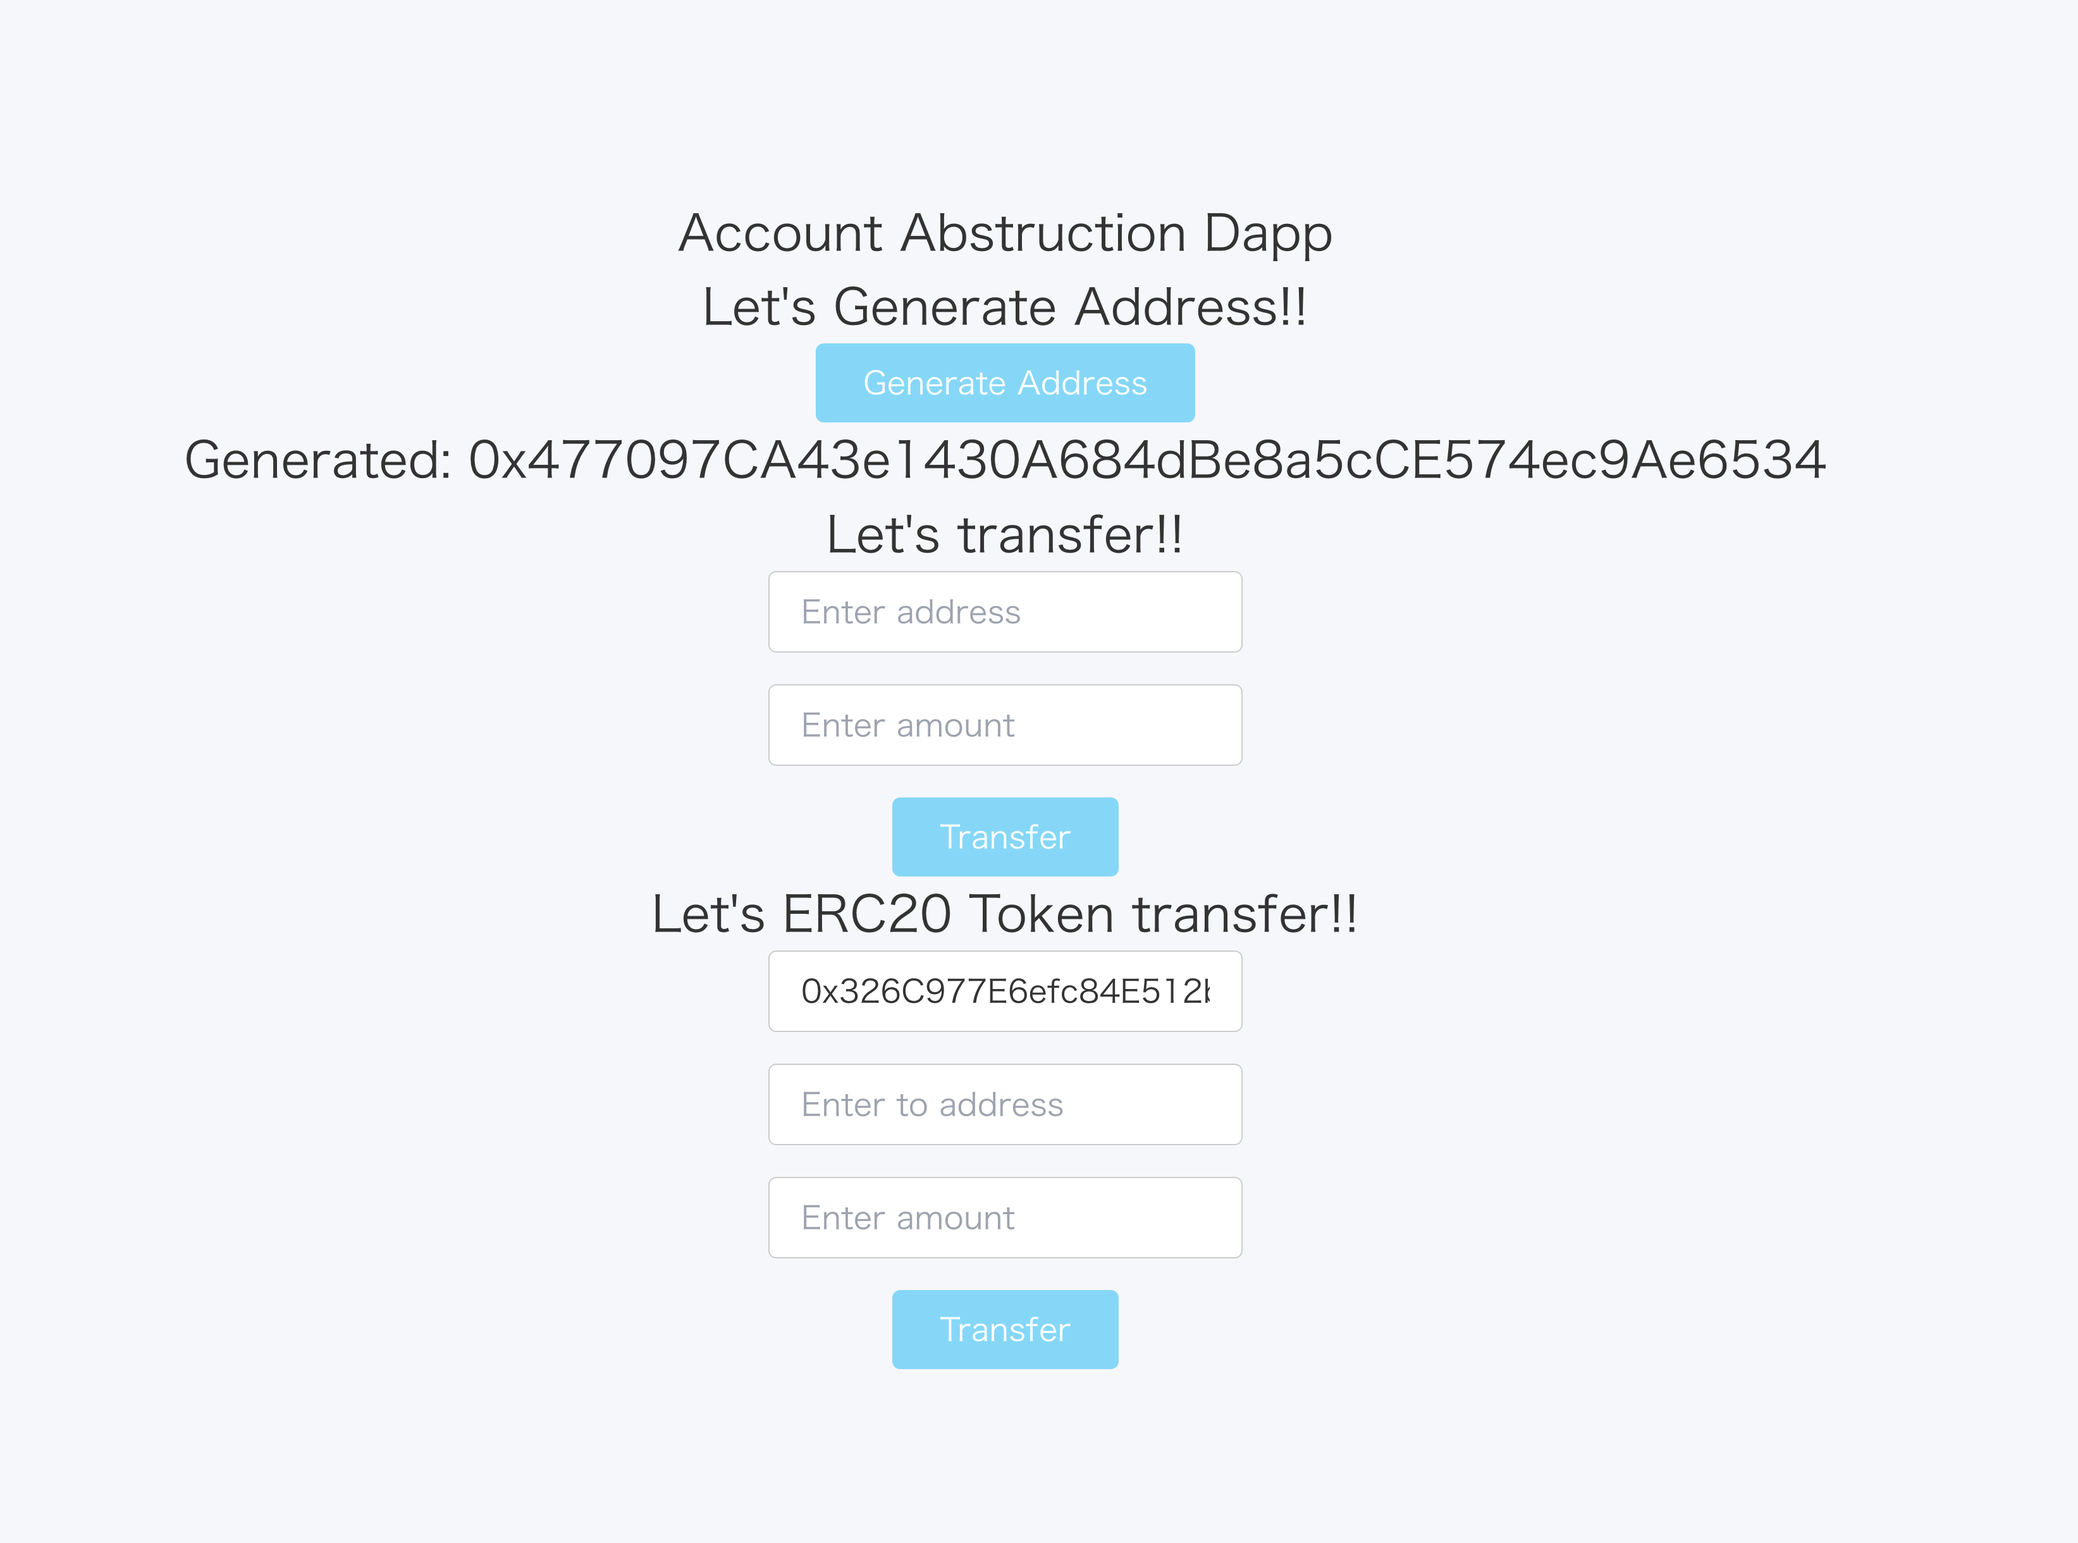
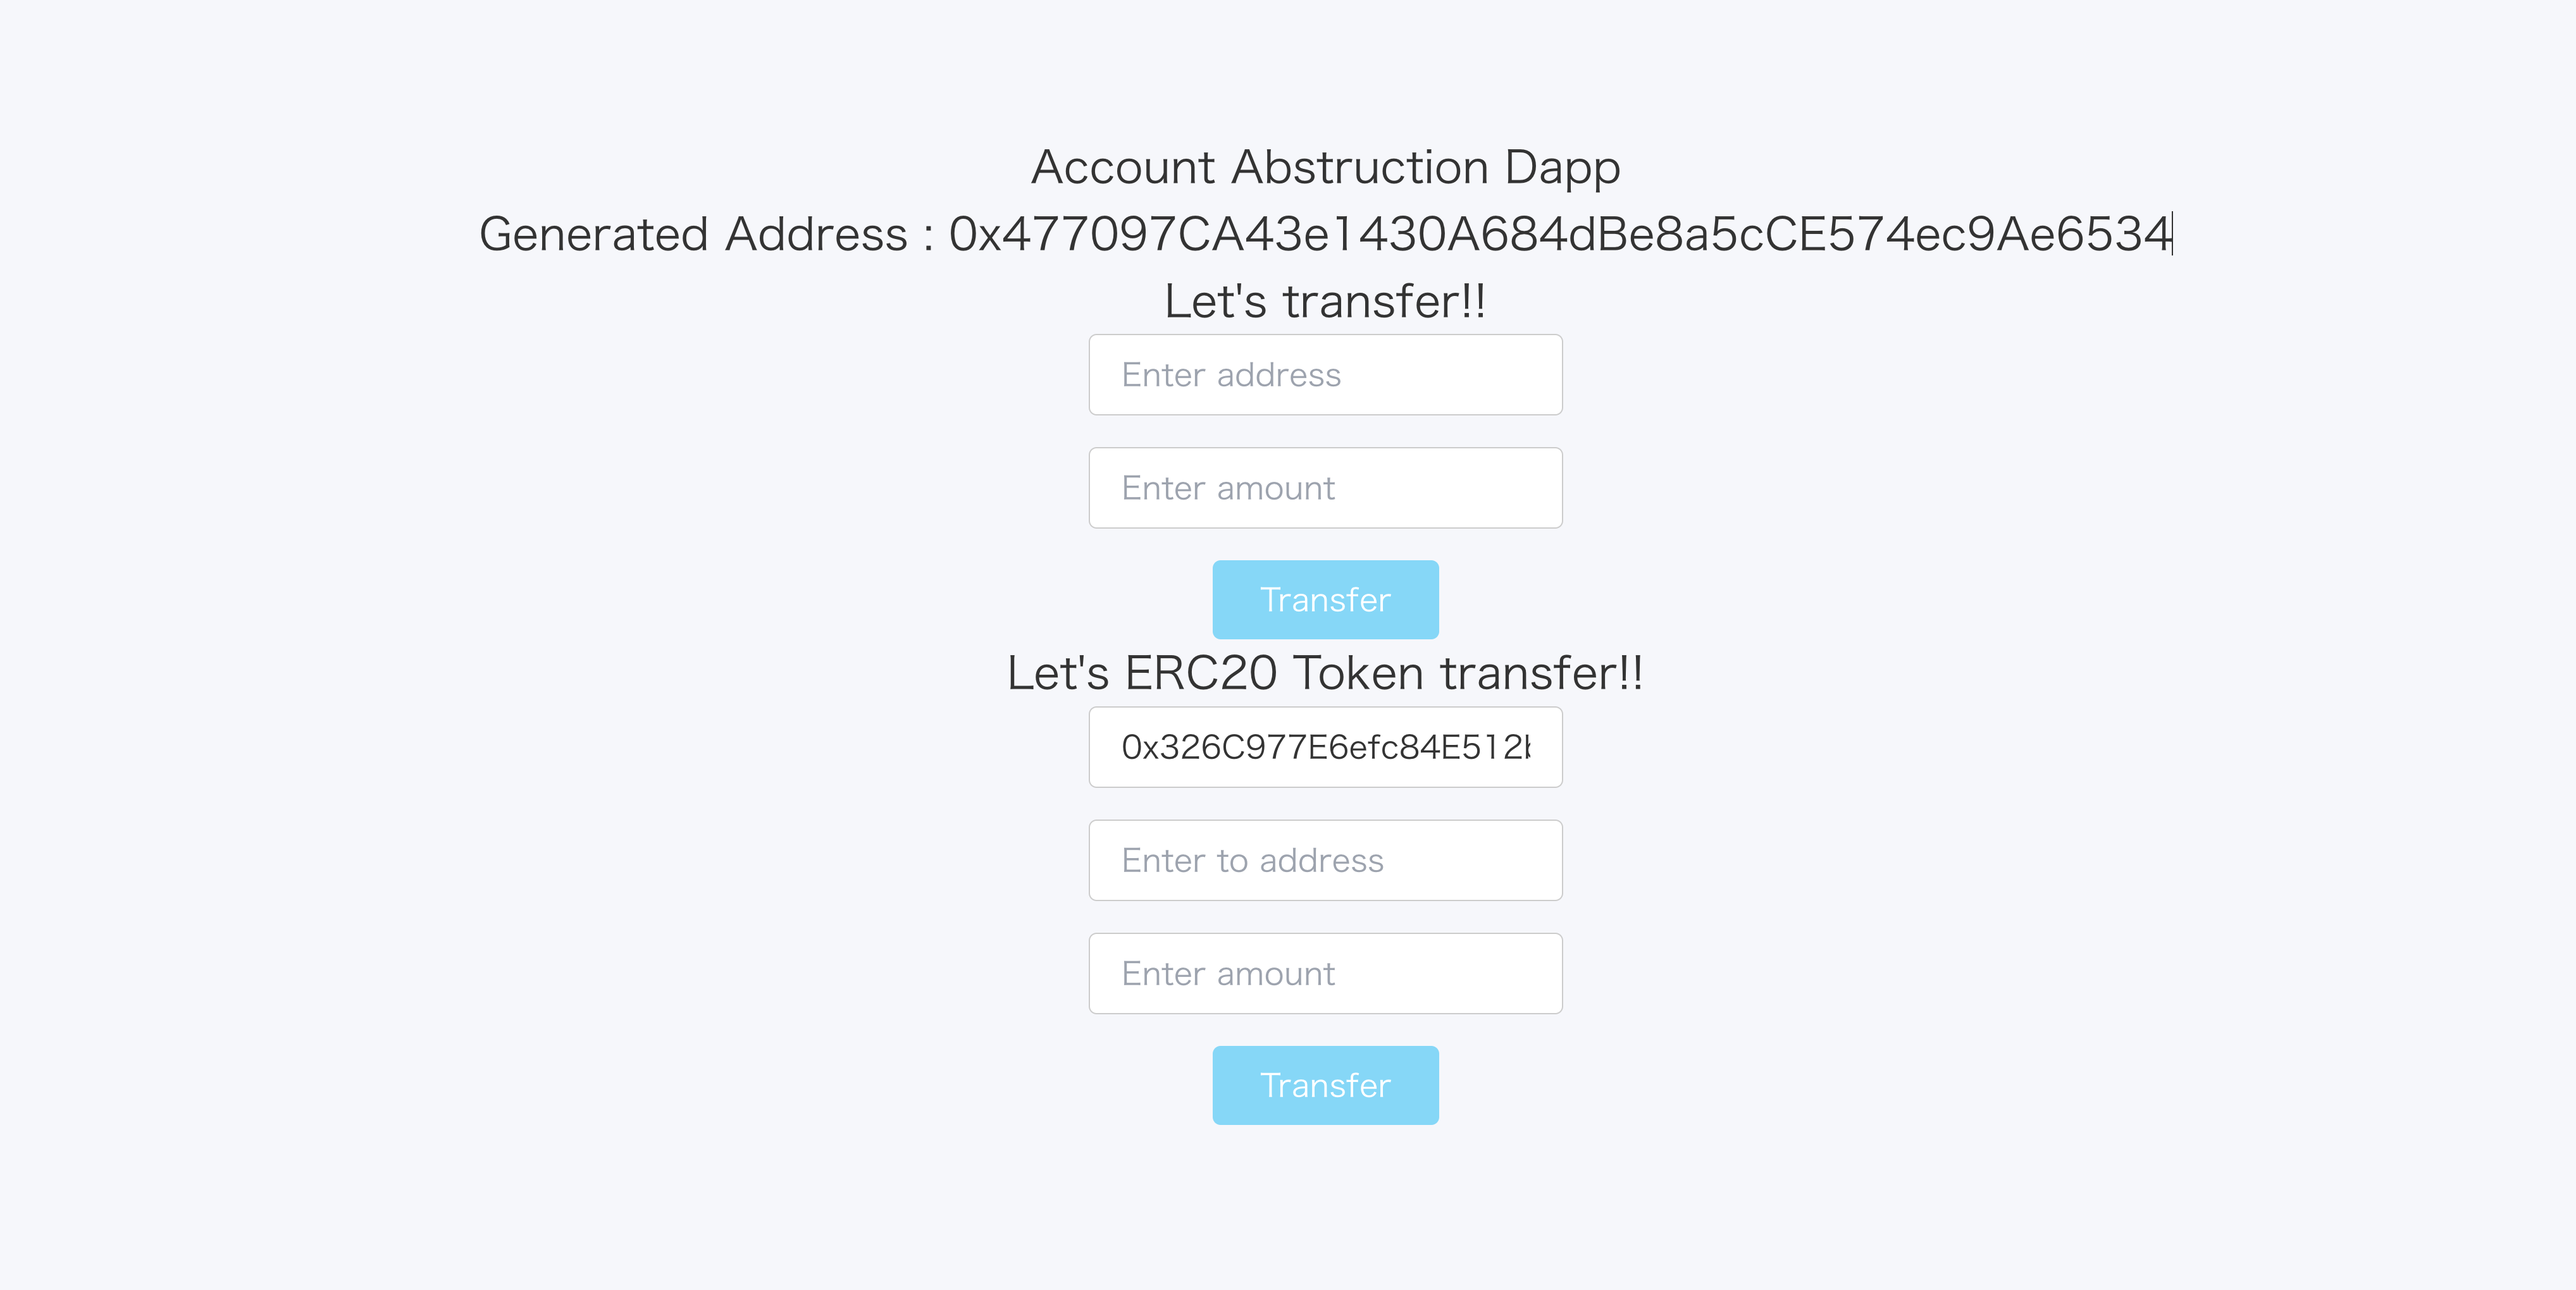
ここまで追加

Changed region(s): [[0.0931, 0.1235, 0.8691, 0.3088], [0.3104, 0.3397, 0.6519, 0.6794], [0.4035, 0.7103, 0.5587, 0.8956]]

diff --git a/frontend/src/App.tsx b/frontend/src/App.tsx
@@ -5,6 +5,18 @@ import ERC20Transfer from './Components/ERC20Transfer';
 import Spinner from './Components/common/Spinner';
 import config from './config.json';
 import { Presets } from 'userop';
+import query from './graphql/query';
+import { Client, Provider, cacheExchange, fetchExchange, useQuery } from 'urql';
+import FactoryTable from './Components/FactoryTable';
+
+// SubGraph用の API エンドポイント
+const API_URL = "https://api.studio.thegraph.com/query/44992/aa-factorymanager/v0.0.1";
+
+// create client
+const client = new Client({
+  url: API_URL,
+  exchanges: [cacheExchange, fetchExchange],
+});
 
 /**
  * App Component
@@ -14,12 +26,17 @@ function App() {
   const [isLoading, setIsLoading] = useState(false);
   const [generatedAddress, setGeneratedAddress] = useState('');
 
+  // execute query
+  const [result] = useQuery({ query });
+  const { data, fetching, error } = result;
+  
   useEffect(() => {
     /**
      * 初期化メソッド
      */
     const init = async () => {
-      setIsLoading(true)
+      setIsLoading(true);
+
       const simpleAccount = await Presets.Builder.SimpleAccount.init(
         config.signingKey,
         config.rpcUrl,
@@ -29,7 +46,7 @@ function App() {
 
       const address = simpleAccount.getSender();
       setGeneratedAddress(address);
-      setIsLoading(false)
+      setIsLoading(false);
     };
     // 初期化メソッド呼び出し
     init();
@@ -46,6 +63,8 @@ function App() {
             Generated Address : {generatedAddress}
             <Transfer setIsLoading={setIsLoading} /> 
             <ERC20Transfer setIsLoading={setIsLoading} />
+            <div>Deployed FactoryContract by FactoryManager</div>
+            {data !== undefined && <FactoryTable data={data} />}
           </>
         )}
       </header>
@@ -53,4 +72,12 @@ function App() {
   );
 }
 
-export default App;
+function Root() {
+  return (
+    <Provider value={client}>
+      <App />
+    </Provider>
+  );
+}
+
+export default Root;

diff --git a/frontend/src/Components/FactoryTable/index.tsx b/frontend/src/Components/FactoryTable/index.tsx
@@ -1,0 +1,41 @@
+import { FactoryCreated } from './../../utils/types';
+
+interface Props {
+  data: { factoryCreateds: FactoryCreated[] };
+}
+
+/**
+   * GraphQLで取得した結果を表形式で出力するためのコンポーネント
+   * @param data データ
+   */
+const FactoryTable = ({ data }:Props) => {
+
+    const { factoryCreateds } = data;
+
+    const tableRows = factoryCreateds.map((factoryCreated: FactoryCreated) => (
+        <tr key={factoryCreated.factoryId}>
+            <td>{factoryCreated.factoryId}</td>
+            <td>
+                <a href={"https://mumbai.polygonscan.com/address/" + factoryCreated.factoryAddress}>
+                    {factoryCreated.factoryAddress}
+                </a>
+            </td>
+        </tr>
+    ))
+
+    return (
+        <table>
+            <thead>
+                <tr>
+                    <th>Factory ID</th>
+                    <th>Factory Address</th>
+                </tr>
+            </thead>
+            <tbody>
+                {tableRows}
+            </tbody>
+        </table>
+    );
+}
+
+export default FactoryTable;

diff --git a/frontend/src/graphql/query.ts b/frontend/src/graphql/query.ts
@@ -1,0 +1,16 @@
+import { gql } from 'urql';
+
+// query
+const query = gql`
+    query MyQuery {
+        factoryCreateds(
+            orderBy: id, 
+            orderDirection: desc
+        ) {
+            factoryId
+            factoryAddress
+        }
+    }
+`;
+
+export default query;

diff --git a/frontend/src/utils/types.ts b/frontend/src/utils/types.ts
@@ -1,4 +1,9 @@
 export interface CLIOpts {
     dryRun: boolean;
     withPM: boolean;
-  }
+}
+
+export type FactoryCreated = {
+  factoryId: string;
+  factoryAddress: string;
+}

diff --git a/README.md b/README.md
@@ -361,3 +361,4 @@ yarn run simpleAccount transfer --to 0x51908F598A5e0d8F1A3bAbFa6DF76F9704daD072 
 15. [Create a gas estimation snap](https://docs.metamask.io/snaps/tutorials/gas-estimation)
 16. [Hardhatの使い方メモ(4) テスト - イベントのテスト方法](https://nawoo.hateblo.jp/entry/2021/11/15/223439)
 17. [ERC4337に関するメモ](https://scrapbox.io/m1dstream/EIP4337_%23Ethereum)
+18. [発表資料](https://www.canva.com/design/DAFiCy3VhsI/KAkcUxU8fNhlMjUkeU0_eA/edit?utm_content=DAFiCy3VhsI&utm_campaign=designshare&utm_medium=link2&utm_source=sharebutton)
